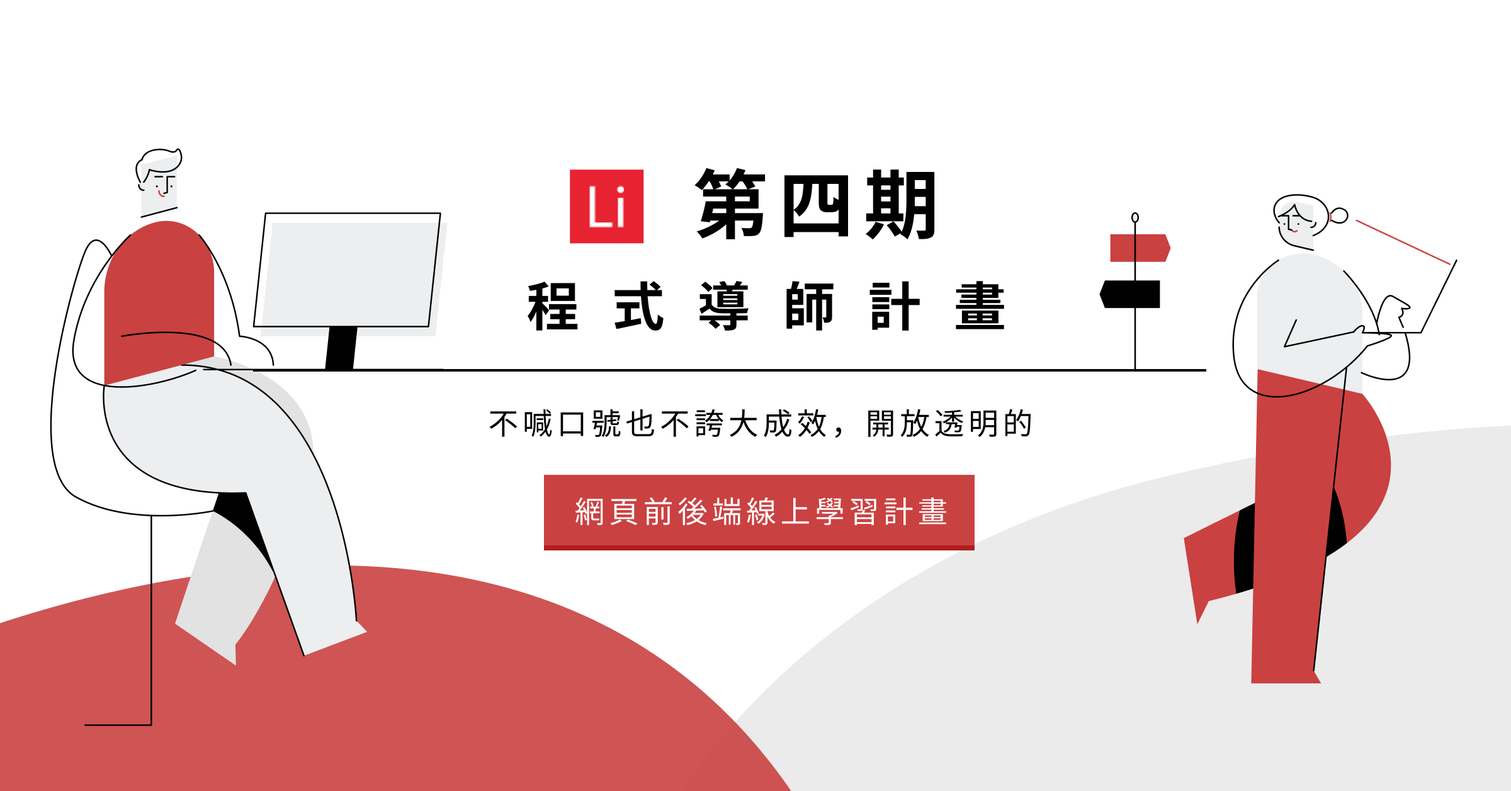
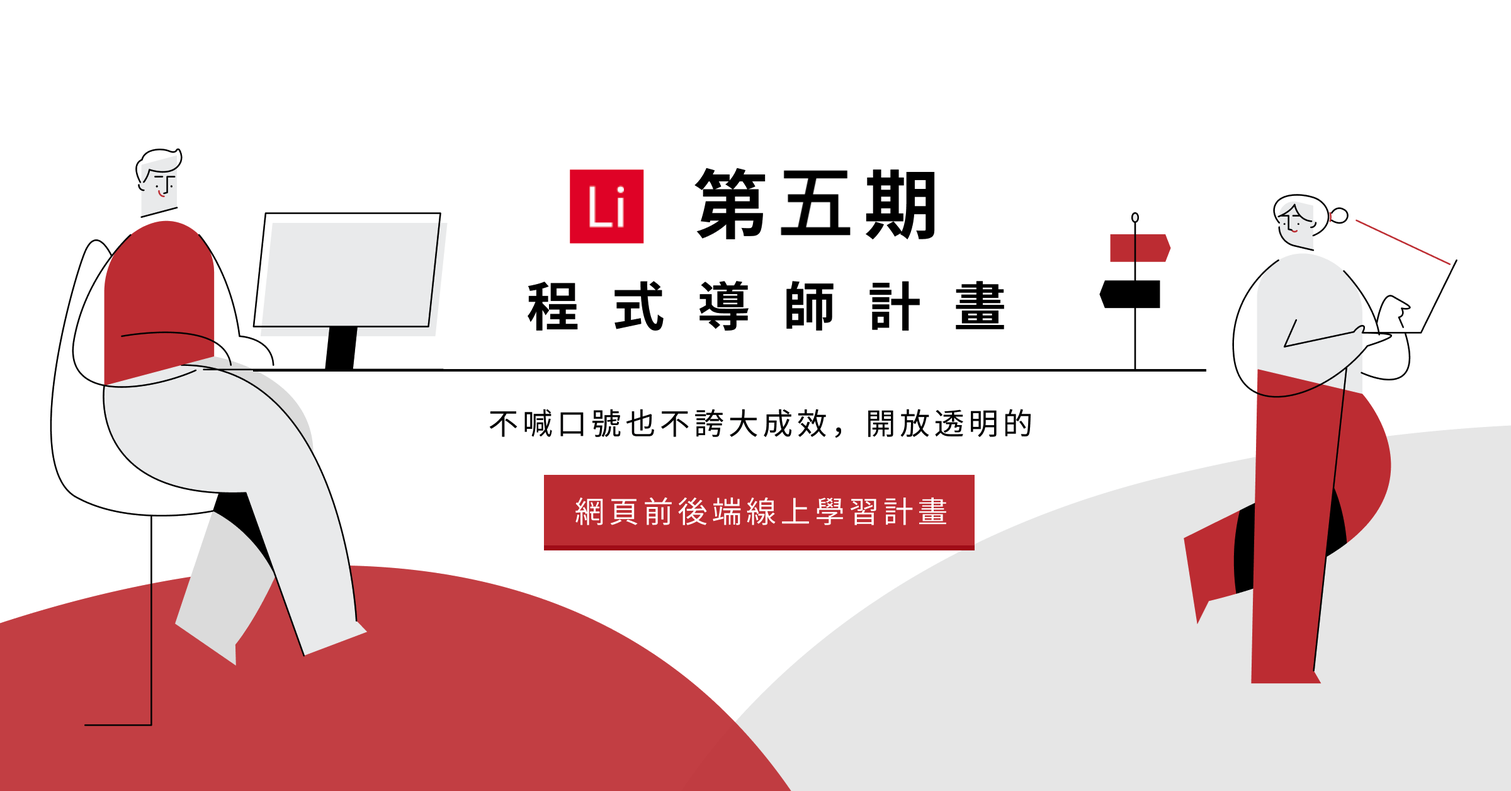
update og tag

Changed region(s): [[0.5, 0.2174, 0.5625, 0.3105], [0.375, 0.2174, 0.4375, 0.3105]]

diff --git a/docs/syllabus.html b/docs/syllabus.html
@@ -1,4 +1,4 @@
-<!-- layout--><!DOCTYPE html><html lang="en"><head><meta charset="UTF-8"/><meta name="viewport" content="width=device-width, initial-scale=1.0"/><meta name="Description" content="不喊口號也不誇大成效，開放透明的前後端線上學習計畫。 試著用六個月的時間，培養出一個找得到工作且基礎紮實的網頁工程師。"/><meta http-equiv="X-UA-Compatible" content="IE=edge"/><meta property="og:title" content="Lidemy 程式導師實驗計畫第四期"/><meta property="og:description" content="不喊口號也不誇大成效，開放透明的前後端線上學習計畫。 試著用六個月的時間，培養出一個找得到工作且基礎紮實的網頁工程師。"/><meta property="og:image" content="https://bootcamp.lidemy.com/image/og-img.png"/><meta property="og:type" content="website"/><meta property="og:url" content="https://bootcamp.lidemy.com"/><meta property="og:site_name" content="Lidemy 程式導師實驗計畫第四期"/><meta property="og:image:width" content="1200"/><meta property="og:image:height" content="628"/><meta name="twitter:card" content="summary_large_image"/><meta name="twitter:title" content="Lidemy 程式導師實驗計畫第四期"/><meta name="twitter:description" content="不喊口號也不誇大成效，開放透明的前後端線上學習計畫。 試著用六個月的時間，培養出一個找得到工作且基礎紮實的網頁工程師。"/><meta name="twitter:image" content="https://bootcamp.lidemy.com/image/og-img.png"/><link rel="author" type="text/plain" href="/humans.txt"/><link rel="stylesheet" href="css/main.min.css"/><link rel="icon" type="image/png" sizes="96x96" href="./image/favicon-96x96.png"/><title> | Lidemy 程式導師實驗計畫第四期</title><script async="" src="https://www.googletagmanager.com/gtag/js?id=UA-77560722-2"></script><script>window.dataLayer = window.dataLayer || [];
+<!-- layout--><!DOCTYPE html><html lang="en"><head><meta charset="UTF-8"/><meta name="viewport" content="width=device-width, initial-scale=1.0"/><meta name="Description" content="不喊口號也不誇大成效，開放透明的前後端線上學習計畫。 試著用六個月的時間，培養出一個找得到工作且基礎紮實的網頁工程師。"/><meta http-equiv="X-UA-Compatible" content="IE=edge"/><meta property="og:title" content="Lidemy 程式導師實驗計畫第五期"/><meta property="og:description" content="不喊口號也不誇大成效，開放透明的前後端線上學習計畫。 試著用六個月的時間，培養出一個找得到工作且基礎紮實的網頁工程師。"/><meta property="og:image" content="https://bootcamp.lidemy.com/image/og-img.png"/><meta property="og:type" content="website"/><meta property="og:url" content="https://bootcamp.lidemy.com"/><meta property="og:site_name" content="Lidemy 程式導師實驗計畫第五期"/><meta property="og:image:width" content="1200"/><meta property="og:image:height" content="628"/><meta name="twitter:card" content="summary_large_image"/><meta name="twitter:title" content="Lidemy 程式導師實驗計畫第五期"/><meta name="twitter:description" content="不喊口號也不誇大成效，開放透明的前後端線上學習計畫。 試著用六個月的時間，培養出一個找得到工作且基礎紮實的網頁工程師。"/><meta name="twitter:image" content="https://bootcamp.lidemy.com/image/og-img.png"/><link rel="author" type="text/plain" href="/humans.txt"/><link rel="stylesheet" href="css/main.min.css"/><link rel="icon" type="image/png" sizes="96x96" href="./image/favicon-96x96.png"/><title> | Lidemy 程式導師實驗計畫第五期</title><script async="" src="https://www.googletagmanager.com/gtag/js?id=UA-77560722-2"></script><script>window.dataLayer = window.dataLayer || [];
 function gtag(){dataLayer.push(arguments);}
 gtag('js', new Date());
 gtag('config', 'UA-77560722-2')</script></head><body><header class="header"><div class="header__content"><div class="header__logo"><a class="header__logo-img" href="/" aria-label="Home"></a><i class="fas fa-bars header__responsive__icon"></i></div><nav class="header__nav"><ul><li><a href="/">首頁</a></li><li><a href="introduce.html">計畫介紹</a></li><li class="current"><a href="syllabus.html">課程大綱</a></li><li><a href="achievement.html">教學成果</a></li><li><a href="course-info.html">課程資訊</a></li><li><a href="faq.html">FAQ</a></li></ul></nav><a class="header__cta-btn" href="course-info.html">了解報名資訊</a></div></header><div class="wrapper"><section class="section syllabus__header"><p class="syllabus__header-intro">底下是這一期的課程大綱，提供比較沒有程式基礎的新手參考。若是想要更完整的課綱以及作業，可以參考 <a href="https://github.com/Lidemy/mentor-program-5th" target="_blank" rel="noopener">第五期完整課綱（調整中）</a></p><ul><a href="#anchor-part1"><li class="syllabus__header-text">程式基礎<p>week1 - week5</p></li></a><a href="#anchor-part2"><li class="syllabus__header-text">網站開發<p>week6 - week10</p></li></a><a href="#anchor-part3"><li class="syllabus__header-text">探究原理<p>week11 - week20</p></li></a><a href="#anchor-part4"><li class="syllabus__header-text">專案開發<p>week21 - week26</p></li></a></ul></section><section class="section anchor-part1"><div class="syllabus theme-light"><div class="syllabus__intro"><div class="syllabus__intro-content"><h2>Part 1</h2><div class="syllabus__intro-content-icon">week 1 - week 5</div><div class="syllabus__intro-content-icon">程式基礎</div><p class="syllabus__intro-text">培養基礎是很重要的一件事，因此課程的第一部份就是好好地幫你把基礎打好，會讓往後的學習順利很多。在這部份中會教你使用指令操控電腦，講解基礎網路知識，以及使用 JavaScript 練習程式解題。</p></div><img class="syllabus__intro-blue-bg rellax" src="./image/theme_light_blue_bg.svg" alt="blue_bg" data-rellax-speed="2" data-rellax-percentage="0.5"/><img class="syllabus__intro-red-bg rellax" src="./image/theme_light_red_bg.svg" alt="red_bg" data-rellax-speed="3" data-rellax-percentage="0.5"/><div class="syllabus_intro-img"><img class="syllabus__intro-character" src="./image/theme_light_character.svg" alt="character"/></div></div><div class="syllabus__content"><ul class="syllabus__content__list"><li class="syllabus__content__item"><i class="fas fa-thumbs-up "></i><h3>建立良好學習心態</h3><ul><li>學習程式前的心態</li><li>問問題的心態</li><li>碰到挫折的心態</li><li>跟他人比較的心態</li><li>看待成功與失敗的心態</li></ul></li><li class="syllabus__content__item"><i class="fab fa-github has-color"></i><h3>學習版本控制</h3><ul><li class="has-color">理解 Git 與 GitHub 的差別</li><li class="has-color">理解為什麼需要版本控制</li><li class="has-color">熟悉 add、commit、push、pull 等基本 Git 指令</li><li class="has-color">熟悉 branch 的使用並送出 Pull Request</li><li class="has-color">熟悉 Git flow 交作業流程</li></ul></li><li class="syllabus__content__item"><i class="fas fa-globe-americas has-color"></i><h3>學習網路基本知識</h3><ul><li class="has-color">熟悉網路運作大概的模式</li><li class="has-color">熟悉什麼是 Request 與 Response</li><li class="has-color">熟悉 TCP/IP</li><li class="has-color">熟悉 HTTP 及相關知識</li><li class="has-color">能夠使用 Node.js 發出 Request</li></ul></li><li class="syllabus__content__item"><i class="fab fa-js "></i><h3>學習 JavaScript 基礎語法及相關知識</h3><ul><li>熟悉變數宣告、判斷式、迴圈以及函式等基礎語法</li><li>熟悉內建函式如 map, filter, reduce 等等</li><li>理解什麼是單元測試 Unit test</li><li>理解什麼是 NPM</li><li>能靈活運用程式基本概念來解題</li></ul></li></ul></div></div></section><section class="section anchor-part2"><div class="syllabus theme-dark"><div class="syllabus__intro"><img class="syllabus__intro-red-bg" src="./image/theme_light_red_bg.svg" alt="red_bg"/><div class="syllabus_intro-img"><img class="syllabus__intro-character lazy" data-src="./image/theme_dark_character.svg" alt="character"/></div><div class="syllabus__intro-content"><h2>Part 2</h2><div class="syllabus__intro-content-icon">week 6 - week 10</div><div class="syllabus__intro-content-icon">網站開發</div><p class="syllabus__intro-text">打好基礎以後，就可以開始學習網頁前後端開發。無論以後想走前端還是後端，都必須理解前後端溝通原理以及基本概念。在這部分會透過做出留言板來熟悉前後端開發流程以及協作。</p></div></div><div class="syllabus__content"><ul class="syllabus__content__list"><li class="syllabus__content__item"><i class="fab fa-html5 "></i><h3>學習網頁基礎 HTML</h3><ul><li>熟悉基本及常用標籤的運用</li><li>熟悉比較冷門的一些標籤</li><li>熟悉如何使用有語意的（semantic）標籤</li><li>熟悉 SEO 基本概念</li><li>熟悉常見網站的 HTML 標籤</li></ul></li><li class="syllabus__content__item"><i class="fab fa-css3-alt has-color"></i><h3>學習 CSS</h3><ul><li class="has-color">熟悉常見屬性如 background, color, width, height 等等</li><li class="has-color">知道 inline、block 跟 inline-block 的區別</li><li class="has-color">知道什麼是 box model</li><li class="has-color">知道 position 的所有屬性及其差別</li><li class="has-color">熟悉 CSS selector，可以輕鬆選到想選到的元素</li></ul></li><li class="syllabus__content__item"><i class="fab fa-chrome has-color"></i><h3>學習 JavaScript 在瀏覽器上的運用</h3><ul><li class="has-color">知道如何用 JavaScript 操控 DOM 物件</li><li class="has-color">知道如何幫一個按鈕加上 event listener</li><li class="has-color">知道捕獲與冒泡是什麼</li><li class="has-color">知道什麼是事件代理（delegation）</li><li class="has-color">知道怎麼用 JavaScript 更改元素的 style</li></ul></li><li class="syllabus__content__item"><i class="fas fa-database "></i><h3>學習 MySQL 資料庫</h3><ul><li>知道如何使用 Select 選取資料</li><li>知道如何使用 Update 更改資料</li><li>知道如何使用 Delete 刪除資料</li><li>知道如何使用 Insert 新增資料</li><li>熟悉 where, join 等等這些基本語法</li></ul></li><li class="syllabus__content__item"><i class="fab fa-php "></i><h3>學習後端 PHP 開發</h3><ul><li>理解前端與後端的差別</li><li>理解前後端溝通流程</li><li>熟悉 PHP 基礎語法</li><li>熟悉 PHP 與資料庫的串接</li><li>能夠寫出基本網站</li></ul></li></ul></div></div></section><section class="section anchor-part3"><div class="syllabus theme-light"><div class="syllabus__intro"><div class="syllabus__intro-content"><h2>Part 3</h2><div class="syllabus__intro-content-icon">week 11 - week 20</div><div class="syllabus__intro-content-icon">探究原理</div><p class="syllabus__intro-text">學會基礎的網頁開發以後，透過一連串練習來熟悉開發流程，也會深入了解一些重要的觀念，讓學員徹底理解背後的原理。這部分主要是熟悉網頁開發中的重要觀念，例如說狀態的維持（Cookie 與 Session）等等。</p></div><img class="syllabus__intro-blue-bg rellax" src="./image/theme_light_blue_bg.svg" alt="blue_bg" data-rellax-speed="2" data-rellax-percentage="0.5"/><img class="syllabus__intro-red-bg rellax" src="./image/theme_light_red_bg.svg" alt="red_bg" data-rellax-speed="3" data-rellax-percentage="0.5"/><div class="syllabus_intro-img"><img class="syllabus__intro-character" src="./image/theme_light_character.svg" alt="character"/></div></div><div class="syllabus__content"><ul class="syllabus__content__list"><li class="syllabus__content__item"><i class="fas fa-tools "></i><h3>學習現代前端開發工具</h3><ul><li>熟悉 jQuery</li><li>熟悉 Bootstrap</li><li>熟悉 Gulp</li><li>熟悉 Webpack</li><li>熟悉 CSS 預處理器</li></ul></li><li class="syllabus__content__item"><i class="fas fa-server has-color"></i><h3>學習建置 Server 及部署專案</h3><ul><li class="has-color">知道虛擬空間、虛擬主機以及實體主機的差別</li><li class="has-color">知道如何設定網域（A、CNAME）</li><li class="has-color">知道如何用 SSH 遠端連線到自己的主機</li><li class="has-color">知道如何在伺服器安裝 Apache, PHP 與 MySQL</li><li class="has-color">知道如何購買雲端主機</li></ul></li><li class="syllabus__content__item"><i class="fas fa-chart-line has-color"></i><h3>學習效能優化相關議題</h3><ul><li class="has-color">知道 HTTP Cache header 的使用</li><li class="has-color">知道如何壓縮圖片大小以及各種格式的區別</li><li class="has-color">知道透過 minify 或是 uglify 減少檔案大小</li><li class="has-color">知道減少不必要的程式碼</li><li class="has-color">知道延遲載入（lazy loading）</li></ul></li><li class="syllabus__content__item"><i class="fas fa-shield-alt "></i><h3>理解常見資訊安全問題</h3><ul><li>熟悉 SQL Injection 原理及防禦方法</li><li>熟悉 XSS 原理及防禦方法</li><li>熟悉 CSRF 原理及防禦方法</li><li>知道雜湊與加密的區別</li><li>知道密碼為什麼要經過雜湊，知道什麼是加鹽</li></ul></li><li class="syllabus__content__item"><i class="fab fa-js "></i><h3>理解 JavaScript 語言核心</h3><ul><li>知道 Event Loop 的運作方式</li><li>知道什麼是作用域（Scope）</li><li>知道 Hoisting 的原理為何</li><li>知道 Closure（閉包）是什麼</li><li>知道大部分情況下 this 的值是什麼</li></ul></li></ul></div></div></section><section class="section anchor-part4"><div class="syllabus theme-dark"><div class="syllabus__intro"><img class="syllabus__intro-red-bg" src="./image/theme_light_red_bg.svg" alt="red_bg"/><div class="syllabus_intro-img"><img class="syllabus__intro-character lazy" data-src="./image/theme_dark_character.svg" alt="character"/></div><div class="syllabus__intro-content"><h2>Part 4</h2><div class="syllabus__intro-content-icon">week 21 - week 26</div><div class="syllabus__intro-content-icon">專案開發</div><p class="syllabus__intro-text">最後一個部分會學習現代框架，使用較新的技術進行網站開發，與業界接軌。除此之外，也會統整之前學習的內容，由導師及助教帶領學員分組進行期末專案開發，而這專案就可以直接放入作品集內。</p></div></div><div class="syllabus__content"><ul class="syllabus__content__list"><li class="syllabus__content__item"><i class="fab fa-react "></i><h3>熟悉前端 React</h3><ul><li>熟悉 SPA 的概念</li><li>熟悉 React 核心概念</li><li>熟悉 state 與 props 的區別</li><li>熟悉元件的各個生命週期</li><li>熟悉函式庫例如 react-router 的使用</li></ul></li><li class="syllabus__content__item"><i class="fas fa-database has-color"></i><h3>熟悉後端 Express + Sequelize</h3><ul><li class="has-color">熟悉 Express 框架使用方法</li><li class="has-color">熟悉 MVC 開發模式</li><li class="has-color">熟悉 ORM 以及 Sequelize</li><li class="has-color">熟悉 Seeds, Migration 等概念</li><li class="has-color">熟悉 nginx 基礎</li></ul></li><li class="syllabus__content__item"><i class="fas fa-code-branch has-color"></i><h3>學習專案分工及 Git 協作</h3><ul><li class="has-color">熟悉產品開發流程</li><li class="has-color">熟悉工作流程</li><li class="has-color">熟悉專案分工</li><li class="has-color">熟悉 Scrum 及 Agile</li><li class="has-color">熟悉 Git flow</li></ul></li></ul></div></div></section><section class="section cta lazy" data-bg="image/img_cta_bg.svg"><h3 class="cta__title">想要一起來學習程式嗎？</h3><p class="cta__content">第五期現正招生中，到三月底截止，強烈建議你先把官網的資訊都看完，全盤了解過後再做決定，有任何問題都可以透過 Lidemy 粉絲專頁與我們聯絡！</p><div class="cta__operate"><a class="cta__button cta__button-apply" href="achievement.html">觀看教學成果</a><a class="cta__button cta__button-mail" href="course-info.html">報名資訊</a></div></section><button class="scroll-top-btn content-invisible" aria-label="scrollToTop"></button></div><footer class="footer"><div class="footer__content"><div class="footer__links"><a class="logo" href="index.html"><div class="pic"><div class="footer__logo-img"></div></div><h3>Lidemy</h3></a><p>用六個月的時間，培養出一個找得到工作且基礎紮實的網頁工程師。</p><p class="footer__follow">FOLLOW US</p><div class="footer__social social-icons"><a class="github-link" href="https://github.com/Lidemy/mentor-program-4th" target="_blank" rel="noopener" aria-label="GitHub"><i class="fab fa-github"></i></a><a class="facebook-link" href="https://www.facebook.com/lidemytw/" target="_blank" rel="noopener" aria-label="Facebook"><i class="fab fa-facebook-square"></i></a><a class="medium-link" href="https://medium.com/@hulitw" target="_blank" rel="noopener" aria-label="Medium"><i class="fab fa-medium"></i></a></div></div><ul class="footer__nav-list"><li class="footer__nav-item"><h4 class="footer__nav-title">HOME</h4><a href="/#anchor-features">課程特色</a><a href="/#anchor-methods">教學方式</a><a href="/#anchor-about-teacher">關於導師</a><a href="/#anchor-schedule">課程時程</a><a href="/#anchor-target">適合怎樣的人</a><a href="/#anchor-previous-experience">學員心得節錄</a></li><li class="footer__nav-item"><h4 class="footer__nav-title">INTRODUCE</h4><a href="introduce.html#anchor-projectIntro">計畫介紹</a><a href="introduce.html#anchor-teacherIntro">老師介紹</a><a href="introduce.html#anchor-improvement">歷屆改進心得</a></li><li class="footer__nav-item"><h4 class="footer__nav-title">COURSE</h4><a href="syllabus.html#anchor-part1">程式基礎</a><a href="syllabus.html#anchor-part2">網站開發</a><a href="syllabus.html#anchor-part3">探究原理</a><a href="syllabus.html#anchor-part4">專案開發</a></li><li class="footer__nav-item"><h4 class="footer__nav-title">RESULT</h4><a href="achievement.html#anchor-data">歷屆數據</a><a href="achievement.html#anchor-report">學生求職成果</a><a href="achievement.html#anchor-experience">結業心得</a></li><li class="footer__nav-item"><h4 class="footer__nav-title">APPLY</h4><a href="course-info.html#anchor-rule">課程制度</a><a href="course-info.html#anchor-charge">收費方式</a><a href="course-info.html#anchor-registration">報名方式</a><a href="course-info.html#anchor-letter">報名信內容</a><a href="course-info.html#anchor-schedule-list">時程列表</a></li><li class="footer__nav-item"><h4 class="footer__nav-title">FAQ</h4><a href="faq.html#anchor-faq">常見問題</a></li></ul></div><div class="footer__footnote"><p class="resource">illustrator from<a href="https://getillustrations.com/illustration-pack/ghost-illustrations-builder" target="_blank" rel="noopener">getillustrations.com</a></p><p class="copyright">© 2020 Lidemy. All rights reserved.</p><div class="footer__footnote__btn"><a href="https://github.com/Lidemy/mtr-4th-web" target="_blank" rel="noopener">Source Code.</a><a href="/humans.txt" target="_blank" rel="noopener">Team.</a></div></div></footer><section class="banner"><p class="fixed_info">🏁 第五期開放報名中 🏁</p></section><script defer src="js/index.bundle.js"></script><link rel="stylesheet" href="https://fonts.googleapis.com/css2?family=Work+Sans&amp;display=swap"></body></html>

diff --git a/docs/faq.html b/docs/faq.html
@@ -1,4 +1,4 @@
-<!-- layout--><!DOCTYPE html><html lang="en"><head><meta charset="UTF-8"/><meta name="viewport" content="width=device-width, initial-scale=1.0"/><meta name="Description" content="不喊口號也不誇大成效，開放透明的前後端線上學習計畫。 試著用六個月的時間，培養出一個找得到工作且基礎紮實的網頁工程師。"/><meta http-equiv="X-UA-Compatible" content="IE=edge"/><meta property="og:title" content="Lidemy 程式導師實驗計畫第四期"/><meta property="og:description" content="不喊口號也不誇大成效，開放透明的前後端線上學習計畫。 試著用六個月的時間，培養出一個找得到工作且基礎紮實的網頁工程師。"/><meta property="og:image" content="https://bootcamp.lidemy.com/image/og-img.png"/><meta property="og:type" content="website"/><meta property="og:url" content="https://bootcamp.lidemy.com"/><meta property="og:site_name" content="Lidemy 程式導師實驗計畫第四期"/><meta property="og:image:width" content="1200"/><meta property="og:image:height" content="628"/><meta name="twitter:card" content="summary_large_image"/><meta name="twitter:title" content="Lidemy 程式導師實驗計畫第四期"/><meta name="twitter:description" content="不喊口號也不誇大成效，開放透明的前後端線上學習計畫。 試著用六個月的時間，培養出一個找得到工作且基礎紮實的網頁工程師。"/><meta name="twitter:image" content="https://bootcamp.lidemy.com/image/og-img.png"/><link rel="author" type="text/plain" href="/humans.txt"/><link rel="stylesheet" href="css/main.min.css"/><link rel="icon" type="image/png" sizes="96x96" href="./image/favicon-96x96.png"/><title>FAQ | Lidemy 程式導師實驗計畫第四期</title><script async="" src="https://www.googletagmanager.com/gtag/js?id=UA-77560722-2"></script><script>window.dataLayer = window.dataLayer || [];
+<!-- layout--><!DOCTYPE html><html lang="en"><head><meta charset="UTF-8"/><meta name="viewport" content="width=device-width, initial-scale=1.0"/><meta name="Description" content="不喊口號也不誇大成效，開放透明的前後端線上學習計畫。 試著用六個月的時間，培養出一個找得到工作且基礎紮實的網頁工程師。"/><meta http-equiv="X-UA-Compatible" content="IE=edge"/><meta property="og:title" content="Lidemy 程式導師實驗計畫第五期"/><meta property="og:description" content="不喊口號也不誇大成效，開放透明的前後端線上學習計畫。 試著用六個月的時間，培養出一個找得到工作且基礎紮實的網頁工程師。"/><meta property="og:image" content="https://bootcamp.lidemy.com/image/og-img.png"/><meta property="og:type" content="website"/><meta property="og:url" content="https://bootcamp.lidemy.com"/><meta property="og:site_name" content="Lidemy 程式導師實驗計畫第五期"/><meta property="og:image:width" content="1200"/><meta property="og:image:height" content="628"/><meta name="twitter:card" content="summary_large_image"/><meta name="twitter:title" content="Lidemy 程式導師實驗計畫第五期"/><meta name="twitter:description" content="不喊口號也不誇大成效，開放透明的前後端線上學習計畫。 試著用六個月的時間，培養出一個找得到工作且基礎紮實的網頁工程師。"/><meta name="twitter:image" content="https://bootcamp.lidemy.com/image/og-img.png"/><link rel="author" type="text/plain" href="/humans.txt"/><link rel="stylesheet" href="css/main.min.css"/><link rel="icon" type="image/png" sizes="96x96" href="./image/favicon-96x96.png"/><title>FAQ | Lidemy 程式導師實驗計畫第五期</title><script async="" src="https://www.googletagmanager.com/gtag/js?id=UA-77560722-2"></script><script>window.dataLayer = window.dataLayer || [];
 function gtag(){dataLayer.push(arguments);}
 gtag('js', new Date());
 gtag('config', 'UA-77560722-2')</script></head><body><header class="header"><div class="header__content"><div class="header__logo"><a class="header__logo-img" href="/" aria-label="Home"></a><i class="fas fa-bars header__responsive__icon"></i></div><nav class="header__nav"><ul><li><a href="/">首頁</a></li><li><a href="introduce.html">計畫介紹</a></li><li><a href="syllabus.html">課程大綱</a></li><li><a href="achievement.html">教學成果</a></li><li><a href="course-info.html">課程資訊</a></li><li class="current"><a href="faq.html">FAQ</a></li></ul></nav><a class="header__cta-btn" href="course-info.html">了解報名資訊</a></div></header><div class="wrapper"><div class="section faq anchor-faq"><h3 class="common__title center"><a href="#anchor-faq">FAQ</a></h3><ul class="faq__list"><li class="faq__list__item active"><a class="faq__list__item-link" href="#"> <div class="faq__list__item-question"> <span>Q</span><h3>為什麼這個計畫到了第五期還是「實驗」計畫？</h3></div><i class="fas fa-chevron-up"></i></a><div class="faq__list__item-content"><span>A</span><div class="faq__list__item-content-text"><p>這個計畫搞不好永遠都會叫做「實驗」計畫，因為每一期我都當作一個實驗，實驗我的教學成效如何、品質如何，根據學生的回饋調整課程內容，繼續做下一輪的實驗，持續優化、改進。</p></div></div></li><li class="faq__list__item "><a class="faq__list__item-link" href="#"> <div class="faq__list__item-question"> <span>Q</span><h3>為什麼我要花這麼多錢只為了看線上影片？</h3></div><i class="fas fa-chevron-up"></i></a><div class="faq__list__item-content"><span>A</span><div class="faq__list__item-content-text"><p>因為這個課程不只有線上影片。</p><p>除了線上影片以外，還有批改作業的服務以及學習社群，還有學員專屬的直播 QA 時間。這些東西全都加在一起，才是這個計畫的獨特之處。若是你覺得只看線上影片就很足夠了，部分的課程內容其實有在對外販售，可以參考：  <a href="https://lidemy.com/" target="_blank" rel="noopener">Lidemy 課程列表 </a>。</a></p></div></div></li><li class="faq__list__item "><a class="faq__list__item-link" href="#"> <div class="faq__list__item-question"> <span>Q</span><h3>為什麼課程裡前後端都有而不是只專注在一個？兩邊都學會不會樣樣通樣樣鬆？</h3></div><i class="fas fa-chevron-up"></i></a><div class="faq__list__item-content"><span>A</span><div class="faq__list__item-content-text"><p>首先，讓你前後端都學絕對不是讓你成為 Full-stack 工程師，成為 Half-stack 倒是有點機會。無論你是前端還是後端，別忘了前面還有大家經常性忽略的一個詞「Web」，Web 前端與後端才是全名。</p><p>既然 Web 包含了前後端兩個部分，少了任何一部份都不完整，都會讓你對於整個網路的理解缺了一塊。因此這堂課從前到後再由後到前，希望把你對網路的知識整個打通，這樣我覺得才是最完整、最全面的學習。</p><p>至於樣樣通樣樣鬆，不會。</p><p>一併學習前後端的好處就是對網路的基礎會比只學單個的紮實許多，因為你對整體有個全面性的理解。而且這邊前後端都注重原理與基礎，基礎打好之後學工具便不是難事。</p></div></div></li><li class="faq__list__item "><a class="faq__list__item-link" href="#"> <div class="faq__list__item-question"> <span>Q</span><h3>學生出來會不會沒人帶就什麼都不會？</h3></div><i class="fas fa-chevron-up"></i></a><div class="faq__list__item-content"><span>A</span><div class="faq__list__item-content-text">     <p>首先，大家要很清楚知道的一點是，在職場上沒人帶才是常態。很有可能你進去的公司只有你一個工程師，或是儘管有一個 team，但也不會有一個人專門去帶你。本來就沒有人有義務去帶你。</p><p>為了不讓學生變成只會看影片跟著打 code ，關了影片什麼都寫不出來的那種人，我在作業上有做一些調整，很多作業的內容跟要你寫的東西是課程裡面沒有的，你就必須自己去找資料才能實作得出來。</p><p>所以在課程中就已經培養了一定程度的自學能力。</p></div></div></li><li class="faq__list__item "><a class="faq__list__item-link" href="#"> <div class="faq__list__item-question"> <span>Q</span><h3>學費方案是怎麼訂的？</h3></div><i class="fas fa-chevron-up"></i></a><div class="faq__list__item-content"><span>A</span><div class="faq__list__item-content-text"> <p>在一開始的程式導師實驗計畫，只有「A 求職方案」，背後的理念是：「你來我這邊學半年，如果還找不到工作，那是我的問題，是我沒教好」所以一毛錢都不用付，但如果找到工作了，代表我教得不錯，那就要收一筆學費。</p><p>但是轉職可不是件簡單的事，雖然說六個月很長了，但是這跟你每天付出多少時間是有關的，一天只能付出兩小時跟一天付出六小時，最後的時數就差了三倍。</p><p>我規劃的課綱以及作業大概是「每週至少付出 50 個小時」的量，這差不多就是要全職學習了，否則很難做到。而我也認為對想要在半年內轉職的人來說，這樣的時間是必須的。</p><p>但是一開始的收費規則並沒有很強硬的規定時間以及轉職意願，所以幾期下來，有一些學生是課程開始時想要轉職，到後面卻因為各種因素不想轉了，也有一些可以付出的時間越來越少。</p><p>若是「沒辦法付出時間」或者「沒有求職意願」，那我前面所說的「你來我這邊學半年，如果還找不到工作，那是我的問題，是我沒教好」這句話就不成立了，因為這句話的前提是：「這半年要持續付出一定時間」以及「你要有求職意願」。</p><p>但如果只收這種人，就會沒辦法顧到其他的人。例如說已經有工作想來加強基礎，或者是想要邊工作邊學習程式轉職成工程師，時間也可以接受拉得比較長（可能多兩個月之類的），或是純粹對程式有興趣想要學習的人。針對這些人，原本的付費規則就不適用了，因此才有了第四期這個新的付費規則：「就直接付學費吧」。</p><p>以前幾期的資料來看，若是課程有好好上完，年薪 50 萬跑不掉，那學費就是 60k，因此 B 方案就以這個價錢為基準再降 5k，所以總額才定在 55k。</p><p>為什麼要降 5k？這是為了讓想要轉職的人也可以考慮 B 方案。如果有人符合選擇 A 方案的資格，但是對自己很有自信，覺得一定可以轉職成功，那就可以選擇 B 方案。對他來說，整體學費變少了，對我來說，我也不須承擔找不到工作學費歸零的風險，是對雙方都有利益的行為。</p></div></div></li><li class="faq__list__item "><a class="faq__list__item-link" href="#"> <div class="faq__list__item-question"> <span>Q</span><h3>收費方案有點複雜，可以舉一些例子嗎？</h3></div><i class="fas fa-chevron-up"></i></a><div class="faq__list__item-content"><span>A</span><div class="faq__list__item-content-text"> <p>案例一：兩個月後選擇「A 求職方案」，繳交保證金 5000 元，跟到課程結束，於課程開始七個月後找到工作，年薪為 50 萬，總共的學費為：500k * 12% = 60k，扣掉保證金 5k，還要再繳 55k</p><p>案例二：兩個月後選擇「A 求職方案」，繳交保證金 5000 元，課程開始八個月後都還沒找到工作，可以選擇什麼都不做，繼續留在課程，或是退出計畫，退回保證金 5000 元以及收回課程</p><p>案例三：兩個月後選擇「A 求職方案」，繳交保證金 5000，在第四個月的時候沒有求職意願了，選擇退出課程，需要付 (4-2) * 12500 = 25000 元學費。</p><p>案例四：兩個月後選擇「B 買斷方案」，繳交保證金 5000 元，一個月後開始每個月付 12500 元學費，付一個月之後就不想上了，退出課程，不收其他費用。</p><p>附上幾個時間點：</p><2021-04-12> 課程開始</2021-04-12><br/><2021-06-01> 開始繳交保證金 5000 元並選擇課程方案，選擇「B 買斷方案」的同學需要繳交第一期 5000 + 12500 的款項，之後每個月再付 12500 元，總共要付四期</2021-06-01><br/><2021-10-12> 課程結束，「A 求職方案」的同學開始準備求職</2021-10-12><br/><2021-12-12> 求職期限截止，選擇「A 求職方案」的同學在這個時間點以前沒有找到工作都不用付學費</2021-12-12></div></div></li><li class="faq__list__item "><a class="faq__list__item-link" href="#"> <div class="faq__list__item-question"> <span>Q</span><h3>上了這堂課以後，就可以做出這個網站嗎？</h3></div><i class="fas fa-chevron-up"></i></a><div class="faq__list__item-content"><span>A</span><div class="faq__list__item-content-text"> <p>很遺憾地告訴你，沒辦法。</p><p>因為網站漂亮大部分是設計師的功勞，而不是工程師的。工程師通常都只是照著設計稿把網頁刻出來，而這堂課裡面完全不教設計，所以就算上完，也不會掌握任何設計相關能力。</p><p>不過若是已經有了設計稿，要照著設計稿把這個網站刻出來，我相信是有辦法的（但要花很多時間）</p></div></div></li><li class="faq__list__item "><a class="faq__list__item-link" href="#"> <div class="faq__list__item-question"> <span>Q</span><h3>上這個課真的不需要有任何程式基礎嗎？</h3></div><i class="fas fa-chevron-up"></i></a><div class="faq__list__item-content"><span>A</span><div class="faq__list__item-content-text">     <p>真的，一點都不需要。</p><p>但同時我也不否認，如果有程式基礎這堂課會上的比較順利。以前滿多學生其實都沒有程式基礎，而且背景跟程式甚至跟理科一點關係都沒有，最後有在時限內轉職成功的，也有失敗的。</p><p>這堂課原本就是設計給毫無程式基礎的初學者上的，將來也會是這樣，所以不需要擔心。若是還有疑慮，可以參考歷屆學生的心得，找看看有沒有跟你背景差不多的人，聽一下他們怎麼說。</p></div></div></li><li class="faq__list__item "><a class="faq__list__item-link" href="#"> <div class="faq__list__item-question"> <span>Q</span><h3>上了這堂課以後，一定可以轉職成工程師嗎？</h3></div><i class="fas fa-chevron-up"></i></a><div class="faq__list__item-content"><span>A</span><div class="faq__list__item-content-text"> <p>很遺憾地告訴你，不一定。</p><p>過去也帶了不少學生，並不是每一個人都可以轉職成工程師。不過根據過往的經歷來看，如果有把課程修完，基本上要找到工作是沒有問題的。所以其實最難的點是難在「把課程修完」，因為中途會碰到很多原因讓你想放棄，例如說自己的私事或是提不起興趣、時間不夠等等，也有可能是我的課程設計得不夠好，或者是課程太無聊，老師講得太爛。</p><p>但我會努力做好我的部分，會盡量去改善課程，讓課程變得更好。</p></div></div></li></ul></div><script defer src="js/faq.bundle.js"></script><button class="scroll-top-btn content-invisible" aria-label="scrollToTop"></button></div><footer class="footer"><div class="footer__content"><div class="footer__links"><a class="logo" href="index.html"><div class="pic"><div class="footer__logo-img"></div></div><h3>Lidemy</h3></a><p>用六個月的時間，培養出一個找得到工作且基礎紮實的網頁工程師。</p><p class="footer__follow">FOLLOW US</p><div class="footer__social social-icons"><a class="github-link" href="https://github.com/Lidemy/mentor-program-4th" target="_blank" rel="noopener" aria-label="GitHub"><i class="fab fa-github"></i></a><a class="facebook-link" href="https://www.facebook.com/lidemytw/" target="_blank" rel="noopener" aria-label="Facebook"><i class="fab fa-facebook-square"></i></a><a class="medium-link" href="https://medium.com/@hulitw" target="_blank" rel="noopener" aria-label="Medium"><i class="fab fa-medium"></i></a></div></div><ul class="footer__nav-list"><li class="footer__nav-item"><h4 class="footer__nav-title">HOME</h4><a href="/#anchor-features">課程特色</a><a href="/#anchor-methods">教學方式</a><a href="/#anchor-about-teacher">關於導師</a><a href="/#anchor-schedule">課程時程</a><a href="/#anchor-target">適合怎樣的人</a><a href="/#anchor-previous-experience">學員心得節錄</a></li><li class="footer__nav-item"><h4 class="footer__nav-title">INTRODUCE</h4><a href="introduce.html#anchor-projectIntro">計畫介紹</a><a href="introduce.html#anchor-teacherIntro">老師介紹</a><a href="introduce.html#anchor-improvement">歷屆改進心得</a></li><li class="footer__nav-item"><h4 class="footer__nav-title">COURSE</h4><a href="syllabus.html#anchor-part1">程式基礎</a><a href="syllabus.html#anchor-part2">網站開發</a><a href="syllabus.html#anchor-part3">探究原理</a><a href="syllabus.html#anchor-part4">專案開發</a></li><li class="footer__nav-item"><h4 class="footer__nav-title">RESULT</h4><a href="achievement.html#anchor-data">歷屆數據</a><a href="achievement.html#anchor-report">學生求職成果</a><a href="achievement.html#anchor-experience">結業心得</a></li><li class="footer__nav-item"><h4 class="footer__nav-title">APPLY</h4><a href="course-info.html#anchor-rule">課程制度</a><a href="course-info.html#anchor-charge">收費方式</a><a href="course-info.html#anchor-registration">報名方式</a><a href="course-info.html#anchor-letter">報名信內容</a><a href="course-info.html#anchor-schedule-list">時程列表</a></li><li class="footer__nav-item"><h4 class="footer__nav-title">FAQ</h4><a href="faq.html#anchor-faq">常見問題</a></li></ul></div><div class="footer__footnote"><p class="resource">illustrator from<a href="https://getillustrations.com/illustration-pack/ghost-illustrations-builder" target="_blank" rel="noopener">getillustrations.com</a></p><p class="copyright">© 2020 Lidemy. All rights reserved.</p><div class="footer__footnote__btn"><a href="https://github.com/Lidemy/mtr-4th-web" target="_blank" rel="noopener">Source Code.</a><a href="/humans.txt" target="_blank" rel="noopener">Team.</a></div></div></footer><section class="banner"><p class="fixed_info">🏁 第五期開放報名中 🏁</p></section><script defer src="js/index.bundle.js"></script><link rel="stylesheet" href="https://fonts.googleapis.com/css2?family=Work+Sans&amp;display=swap"></body></html>

diff --git a/docs/index.html b/docs/index.html
@@ -1,4 +1,4 @@
-<!-- layout--><!DOCTYPE html><html lang="en"><head><meta charset="UTF-8"/><meta name="viewport" content="width=device-width, initial-scale=1.0"/><meta name="Description" content="不喊口號也不誇大成效，開放透明的前後端線上學習計畫。 試著用六個月的時間，培養出一個找得到工作且基礎紮實的網頁工程師。"/><meta http-equiv="X-UA-Compatible" content="IE=edge"/><meta property="og:title" content="Lidemy 程式導師實驗計畫第四期"/><meta property="og:description" content="不喊口號也不誇大成效，開放透明的前後端線上學習計畫。 試著用六個月的時間，培養出一個找得到工作且基礎紮實的網頁工程師。"/><meta property="og:image" content="https://bootcamp.lidemy.com/image/og-img.png"/><meta property="og:type" content="website"/><meta property="og:url" content="https://bootcamp.lidemy.com"/><meta property="og:site_name" content="Lidemy 程式導師實驗計畫第四期"/><meta property="og:image:width" content="1200"/><meta property="og:image:height" content="628"/><meta name="twitter:card" content="summary_large_image"/><meta name="twitter:title" content="Lidemy 程式導師實驗計畫第四期"/><meta name="twitter:description" content="不喊口號也不誇大成效，開放透明的前後端線上學習計畫。 試著用六個月的時間，培養出一個找得到工作且基礎紮實的網頁工程師。"/><meta name="twitter:image" content="https://bootcamp.lidemy.com/image/og-img.png"/><link rel="author" type="text/plain" href="/humans.txt"/><link rel="stylesheet" href="css/main.min.css"/><link rel="icon" type="image/png" sizes="96x96" href="./image/favicon-96x96.png"/><title>首頁 | Lidemy 程式導師實驗計畫第四期</title><script async="" src="https://www.googletagmanager.com/gtag/js?id=UA-77560722-2"></script><script>window.dataLayer = window.dataLayer || [];
+<!-- layout--><!DOCTYPE html><html lang="en"><head><meta charset="UTF-8"/><meta name="viewport" content="width=device-width, initial-scale=1.0"/><meta name="Description" content="不喊口號也不誇大成效，開放透明的前後端線上學習計畫。 試著用六個月的時間，培養出一個找得到工作且基礎紮實的網頁工程師。"/><meta http-equiv="X-UA-Compatible" content="IE=edge"/><meta property="og:title" content="Lidemy 程式導師實驗計畫第五期"/><meta property="og:description" content="不喊口號也不誇大成效，開放透明的前後端線上學習計畫。 試著用六個月的時間，培養出一個找得到工作且基礎紮實的網頁工程師。"/><meta property="og:image" content="https://bootcamp.lidemy.com/image/og-img.png"/><meta property="og:type" content="website"/><meta property="og:url" content="https://bootcamp.lidemy.com"/><meta property="og:site_name" content="Lidemy 程式導師實驗計畫第五期"/><meta property="og:image:width" content="1200"/><meta property="og:image:height" content="628"/><meta name="twitter:card" content="summary_large_image"/><meta name="twitter:title" content="Lidemy 程式導師實驗計畫第五期"/><meta name="twitter:description" content="不喊口號也不誇大成效，開放透明的前後端線上學習計畫。 試著用六個月的時間，培養出一個找得到工作且基礎紮實的網頁工程師。"/><meta name="twitter:image" content="https://bootcamp.lidemy.com/image/og-img.png"/><link rel="author" type="text/plain" href="/humans.txt"/><link rel="stylesheet" href="css/main.min.css"/><link rel="icon" type="image/png" sizes="96x96" href="./image/favicon-96x96.png"/><title>首頁 | Lidemy 程式導師實驗計畫第五期</title><script async="" src="https://www.googletagmanager.com/gtag/js?id=UA-77560722-2"></script><script>window.dataLayer = window.dataLayer || [];
 function gtag(){dataLayer.push(arguments);}
 gtag('js', new Date());
 gtag('config', 'UA-77560722-2')</script></head><body class="theme-index"><header class="header"><div class="header__content"><div class="header__logo"><a class="header__logo-img" href="/" aria-label="Home"></a><i class="fas fa-bars header__responsive__icon"></i></div><nav class="header__nav"><ul><li class="current"><a href="/">首頁</a></li><li><a href="introduce.html">計畫介紹</a></li><li><a href="syllabus.html">課程大綱</a></li><li><a href="achievement.html">教學成果</a></li><li><a href="course-info.html">課程資訊</a></li><li><a href="faq.html">FAQ</a></li></ul></nav><a class="header__cta-btn" href="course-info.html">了解報名資訊</a></div></header><div class="wrapper"><section class="main-visual__container"><div class="main-visual"><h1 class="project__title"><div class="project__title__num">第五期</div><div class="project__title__name">程式導師計畫</div></h1><h2 class="project__desc">不喊口號也不誇大成效，開放透明的 <strong>網頁前後端線上學習計畫</strong><span>試著用六個月的時間，培養出一個找得到工作且基礎紮實的網頁工程師。</span></h2></div></section><section class="section features anchor-features"><h3 class="common__title center"><a href="#anchor-features">課程特色</a></h3><ul class="features__list"><li class="features__list__item"><p class="title">技術脈絡</p><p class="desc">學程式跟學歷史一樣，要掌握的是脈絡而不是單點。在這邊基礎為主，工具為輔，藉由連貫的課程帶你認識技術脈絡，也培養紮實的基本功。</p></li><li class="features__list__item"><p class="title">學習社群</p><p class="desc">藉由學習系統以及群組，認識不同背景的同學，從彼此身上學習，也能夠互相砥礪，創造出良好的學習氛圍。我們鼓勵交流，卻不強制。</p></li><li class="features__list__item"><p class="title">動手實作</p><p class="desc">學程式光看是沒有用的，一定要動手做，藉由作業培養實作能力。二十四週的課程，每一週都有作業，每個作業都會有人批改。</p></li><li class="features__list__item"><p class="title">自學能力</p><p class="desc">在這裡不只學程式，也學習如何學習。課程中後期並不會一步步帶著你，而是留下一部分的自學空間，培養自學能力。課程是一時的，學習是一輩子的。</p></li><li class="features__list__item"><p class="title">資訊透明</p><p class="desc">課綱、作業、心得、成效、反省，在這裡每一項東西都是對外公開的。我希望你徹底瞭解這個課程在幹嘛，再決定要不要報名。</p></li><li class="features__list__item"><p class="title">直播解惑</p><p class="desc">除了錄好的線上課程以外，還有不定期直播，開放各式各樣的提問，現場幫你解答。</p></li></ul><div class="pic features__pic rellax" data-rellax-speed="2" data-rellax-percentage="0.5"><img src="./image/img_features.svg"></div></section><section class="section methods anchor-methods"><h3 class="common__title center"><a href="#anchor-methods">教學方式</a></h3><p class="methods__desc">課程一共有 26 週，前 24 週學習前後端基礎，最後 2 週分組做期末專案。上課方式為觀看錄製好的線上課程影片，碰到問題可以隨時找助教跟老師求救。

diff --git a/docs/achievement.html b/docs/achievement.html
@@ -1,4 +1,4 @@
-<!-- layout--><!DOCTYPE html><html lang="en"><head><meta charset="UTF-8"/><meta name="viewport" content="width=device-width, initial-scale=1.0"/><meta name="Description" content="不喊口號也不誇大成效，開放透明的前後端線上學習計畫。 試著用六個月的時間，培養出一個找得到工作且基礎紮實的網頁工程師。"/><meta http-equiv="X-UA-Compatible" content="IE=edge"/><meta property="og:title" content="Lidemy 程式導師實驗計畫第四期"/><meta property="og:description" content="不喊口號也不誇大成效，開放透明的前後端線上學習計畫。 試著用六個月的時間，培養出一個找得到工作且基礎紮實的網頁工程師。"/><meta property="og:image" content="https://bootcamp.lidemy.com/image/og-img.png"/><meta property="og:type" content="website"/><meta property="og:url" content="https://bootcamp.lidemy.com"/><meta property="og:site_name" content="Lidemy 程式導師實驗計畫第四期"/><meta property="og:image:width" content="1200"/><meta property="og:image:height" content="628"/><meta name="twitter:card" content="summary_large_image"/><meta name="twitter:title" content="Lidemy 程式導師實驗計畫第四期"/><meta name="twitter:description" content="不喊口號也不誇大成效，開放透明的前後端線上學習計畫。 試著用六個月的時間，培養出一個找得到工作且基礎紮實的網頁工程師。"/><meta name="twitter:image" content="https://bootcamp.lidemy.com/image/og-img.png"/><link rel="author" type="text/plain" href="/humans.txt"/><link rel="stylesheet" href="css/main.min.css"/><link rel="icon" type="image/png" sizes="96x96" href="./image/favicon-96x96.png"/><title>歷屆成果 | Lidemy 程式導師實驗計畫第四期</title><script async="" src="https://www.googletagmanager.com/gtag/js?id=UA-77560722-2"></script><script>window.dataLayer = window.dataLayer || [];
+<!-- layout--><!DOCTYPE html><html lang="en"><head><meta charset="UTF-8"/><meta name="viewport" content="width=device-width, initial-scale=1.0"/><meta name="Description" content="不喊口號也不誇大成效，開放透明的前後端線上學習計畫。 試著用六個月的時間，培養出一個找得到工作且基礎紮實的網頁工程師。"/><meta http-equiv="X-UA-Compatible" content="IE=edge"/><meta property="og:title" content="Lidemy 程式導師實驗計畫第五期"/><meta property="og:description" content="不喊口號也不誇大成效，開放透明的前後端線上學習計畫。 試著用六個月的時間，培養出一個找得到工作且基礎紮實的網頁工程師。"/><meta property="og:image" content="https://bootcamp.lidemy.com/image/og-img.png"/><meta property="og:type" content="website"/><meta property="og:url" content="https://bootcamp.lidemy.com"/><meta property="og:site_name" content="Lidemy 程式導師實驗計畫第五期"/><meta property="og:image:width" content="1200"/><meta property="og:image:height" content="628"/><meta name="twitter:card" content="summary_large_image"/><meta name="twitter:title" content="Lidemy 程式導師實驗計畫第五期"/><meta name="twitter:description" content="不喊口號也不誇大成效，開放透明的前後端線上學習計畫。 試著用六個月的時間，培養出一個找得到工作且基礎紮實的網頁工程師。"/><meta name="twitter:image" content="https://bootcamp.lidemy.com/image/og-img.png"/><link rel="author" type="text/plain" href="/humans.txt"/><link rel="stylesheet" href="css/main.min.css"/><link rel="icon" type="image/png" sizes="96x96" href="./image/favicon-96x96.png"/><title>歷屆成果 | Lidemy 程式導師實驗計畫第五期</title><script async="" src="https://www.googletagmanager.com/gtag/js?id=UA-77560722-2"></script><script>window.dataLayer = window.dataLayer || [];
 function gtag(){dataLayer.push(arguments);}
 gtag('js', new Date());
 gtag('config', 'UA-77560722-2')</script></head><body><header class="header"><div class="header__content"><div class="header__logo"><a class="header__logo-img" href="/" aria-label="Home"></a><i class="fas fa-bars header__responsive__icon"></i></div><nav class="header__nav"><ul><li><a href="/">首頁</a></li><li><a href="introduce.html">計畫介紹</a></li><li><a href="syllabus.html">課程大綱</a></li><li class="current"><a href="achievement.html">教學成果</a></li><li><a href="course-info.html">課程資訊</a></li><li><a href="faq.html">FAQ</a></li></ul></nav><a class="header__cta-btn" href="course-info.html">了解報名資訊</a></div></header><div class="wrapper"><section class="section student-report"><section class="section post anchor-data "><h3 class="common__title left"><a href="#anchor-data">歷屆成果報告</a></h3><div class="post__content"><p>以下是歷屆的學生求職狀況，如果想要了解更詳細的資訊，可以參考以下文章：</p><div class="student-report__links"><a href="https://medium.com/hulis-blog/mentor-program-review-a9c6668dfb" target="_blank" rel="noopener"><em>第一期</em> 程式導師實驗計畫第一期成果與心得</a><a href="https://medium.com/hulis-blog/mentor-program-2nd-result-3cb7c2b6627e" target="_blank" rel="noopener"><em>第二期</em> 27% 的人找到工作——程式導師實驗計畫第二期成果報吿</a><a href="https://medium.com/@hulitw/mentor-program-3rd-result-df178bb55f4" target="_blank" rel="noopener"><em>第三期</em> 華麗謝幕：程式導師實驗計畫第三期成果以及未來走向</a><a href="https://hulitw.medium.com/mentor-program-4th-review-f8e8de92eea2" target="_blank" rel="noopener"><em>第四期</em> 程式導師實驗計畫第四期檢討與心得</a></div></div></section><section class="section post anchor-report "><h3 class="common__title left"><a href="#anchor-report">學生求職成果</a></h3><div class="post__content"><div class="chart-container"><canvas id="chart"></canvas></div><p class="annotation">* 結業的定義：課程結束時沒有被淘汰制淘汰，意思就是一直有在跟課程，但結業時不一定有「把課程都上完」，詳情可見上面的心得，裡面有詳細數據。</p></div></section></section><div class="wave"></div><div class="full-bg theme-dark"><div class="student-experience"><section class="section post anchor-experience "><h3 class="common__title left"><a href="#anchor-experience">歷屆學員心得</a></h3><div class="post__content"><p>程式導師實驗計畫在每一期結束時都會請學生寫課程心得，好的壞的都可以，還會提醒盡量寫缺點，這樣才能盡快在下一期改進。

diff --git a/docs/course-info.html b/docs/course-info.html
@@ -1,4 +1,4 @@
-<!-- layout--><!DOCTYPE html><html lang="en"><head><meta charset="UTF-8"/><meta name="viewport" content="width=device-width, initial-scale=1.0"/><meta name="Description" content="不喊口號也不誇大成效，開放透明的前後端線上學習計畫。 試著用六個月的時間，培養出一個找得到工作且基礎紮實的網頁工程師。"/><meta http-equiv="X-UA-Compatible" content="IE=edge"/><meta property="og:title" content="Lidemy 程式導師實驗計畫第四期"/><meta property="og:description" content="不喊口號也不誇大成效，開放透明的前後端線上學習計畫。 試著用六個月的時間，培養出一個找得到工作且基礎紮實的網頁工程師。"/><meta property="og:image" content="https://bootcamp.lidemy.com/image/og-img.png"/><meta property="og:type" content="website"/><meta property="og:url" content="https://bootcamp.lidemy.com"/><meta property="og:site_name" content="Lidemy 程式導師實驗計畫第四期"/><meta property="og:image:width" content="1200"/><meta property="og:image:height" content="628"/><meta name="twitter:card" content="summary_large_image"/><meta name="twitter:title" content="Lidemy 程式導師實驗計畫第四期"/><meta name="twitter:description" content="不喊口號也不誇大成效，開放透明的前後端線上學習計畫。 試著用六個月的時間，培養出一個找得到工作且基礎紮實的網頁工程師。"/><meta name="twitter:image" content="https://bootcamp.lidemy.com/image/og-img.png"/><link rel="author" type="text/plain" href="/humans.txt"/><link rel="stylesheet" href="css/main.min.css"/><link rel="icon" type="image/png" sizes="96x96" href="./image/favicon-96x96.png"/><title>課程資訊 | Lidemy 程式導師實驗計畫第四期</title><script async="" src="https://www.googletagmanager.com/gtag/js?id=UA-77560722-2"></script><script>window.dataLayer = window.dataLayer || [];
+<!-- layout--><!DOCTYPE html><html lang="en"><head><meta charset="UTF-8"/><meta name="viewport" content="width=device-width, initial-scale=1.0"/><meta name="Description" content="不喊口號也不誇大成效，開放透明的前後端線上學習計畫。 試著用六個月的時間，培養出一個找得到工作且基礎紮實的網頁工程師。"/><meta http-equiv="X-UA-Compatible" content="IE=edge"/><meta property="og:title" content="Lidemy 程式導師實驗計畫第五期"/><meta property="og:description" content="不喊口號也不誇大成效，開放透明的前後端線上學習計畫。 試著用六個月的時間，培養出一個找得到工作且基礎紮實的網頁工程師。"/><meta property="og:image" content="https://bootcamp.lidemy.com/image/og-img.png"/><meta property="og:type" content="website"/><meta property="og:url" content="https://bootcamp.lidemy.com"/><meta property="og:site_name" content="Lidemy 程式導師實驗計畫第五期"/><meta property="og:image:width" content="1200"/><meta property="og:image:height" content="628"/><meta name="twitter:card" content="summary_large_image"/><meta name="twitter:title" content="Lidemy 程式導師實驗計畫第五期"/><meta name="twitter:description" content="不喊口號也不誇大成效，開放透明的前後端線上學習計畫。 試著用六個月的時間，培養出一個找得到工作且基礎紮實的網頁工程師。"/><meta name="twitter:image" content="https://bootcamp.lidemy.com/image/og-img.png"/><link rel="author" type="text/plain" href="/humans.txt"/><link rel="stylesheet" href="css/main.min.css"/><link rel="icon" type="image/png" sizes="96x96" href="./image/favicon-96x96.png"/><title>課程資訊 | Lidemy 程式導師實驗計畫第五期</title><script async="" src="https://www.googletagmanager.com/gtag/js?id=UA-77560722-2"></script><script>window.dataLayer = window.dataLayer || [];
 function gtag(){dataLayer.push(arguments);}
 gtag('js', new Date());
 gtag('config', 'UA-77560722-2')</script></head><body><header class="header"><div class="header__content"><div class="header__logo"><a class="header__logo-img" href="/" aria-label="Home"></a><i class="fas fa-bars header__responsive__icon"></i></div><nav class="header__nav"><ul><li><a href="/">首頁</a></li><li><a href="introduce.html">計畫介紹</a></li><li><a href="syllabus.html">課程大綱</a></li><li><a href="achievement.html">教學成果</a></li><li class="current"><a href="course-info.html">課程資訊</a></li><li><a href="faq.html">FAQ</a></li></ul></nav><a class="header__cta-btn" href="course-info.html">了解報名資訊</a></div></header><div class="wrapper"><section class="section post anchor-rule "><h3 class="common__title left"><a href="#anchor-rule">課程制度</a></h3><div class="post__content"><p>對於願意付出時間學習並且有轉職意願的同學來說，這個課程有所謂的<strong>「淘汰制」</strong>，週一至週五每一天都必須在學習系統內報告進度（今天學了哪些東西），兩週內每日進度報告累積缺交三次即淘汰。每日進度報告沒有限字數，因此淘汰的門檻其實滿低的，會有淘汰制主要是想增進大家的學習動力。

diff --git a/docs/introduce.html b/docs/introduce.html
@@ -1,4 +1,4 @@
-<!-- layout--><!DOCTYPE html><html lang="en"><head><meta charset="UTF-8"/><meta name="viewport" content="width=device-width, initial-scale=1.0"/><meta name="Description" content="不喊口號也不誇大成效，開放透明的前後端線上學習計畫。 試著用六個月的時間，培養出一個找得到工作且基礎紮實的網頁工程師。"/><meta http-equiv="X-UA-Compatible" content="IE=edge"/><meta property="og:title" content="Lidemy 程式導師實驗計畫第四期"/><meta property="og:description" content="不喊口號也不誇大成效，開放透明的前後端線上學習計畫。 試著用六個月的時間，培養出一個找得到工作且基礎紮實的網頁工程師。"/><meta property="og:image" content="https://bootcamp.lidemy.com/image/og-img.png"/><meta property="og:type" content="website"/><meta property="og:url" content="https://bootcamp.lidemy.com"/><meta property="og:site_name" content="Lidemy 程式導師實驗計畫第四期"/><meta property="og:image:width" content="1200"/><meta property="og:image:height" content="628"/><meta name="twitter:card" content="summary_large_image"/><meta name="twitter:title" content="Lidemy 程式導師實驗計畫第四期"/><meta name="twitter:description" content="不喊口號也不誇大成效，開放透明的前後端線上學習計畫。 試著用六個月的時間，培養出一個找得到工作且基礎紮實的網頁工程師。"/><meta name="twitter:image" content="https://bootcamp.lidemy.com/image/og-img.png"/><link rel="author" type="text/plain" href="/humans.txt"/><link rel="stylesheet" href="css/main.min.css"/><link rel="icon" type="image/png" sizes="96x96" href="./image/favicon-96x96.png"/><title>計畫介紹 | Lidemy 程式導師實驗計畫第四期</title><script async="" src="https://www.googletagmanager.com/gtag/js?id=UA-77560722-2"></script><script>window.dataLayer = window.dataLayer || [];
+<!-- layout--><!DOCTYPE html><html lang="en"><head><meta charset="UTF-8"/><meta name="viewport" content="width=device-width, initial-scale=1.0"/><meta name="Description" content="不喊口號也不誇大成效，開放透明的前後端線上學習計畫。 試著用六個月的時間，培養出一個找得到工作且基礎紮實的網頁工程師。"/><meta http-equiv="X-UA-Compatible" content="IE=edge"/><meta property="og:title" content="Lidemy 程式導師實驗計畫第五期"/><meta property="og:description" content="不喊口號也不誇大成效，開放透明的前後端線上學習計畫。 試著用六個月的時間，培養出一個找得到工作且基礎紮實的網頁工程師。"/><meta property="og:image" content="https://bootcamp.lidemy.com/image/og-img.png"/><meta property="og:type" content="website"/><meta property="og:url" content="https://bootcamp.lidemy.com"/><meta property="og:site_name" content="Lidemy 程式導師實驗計畫第五期"/><meta property="og:image:width" content="1200"/><meta property="og:image:height" content="628"/><meta name="twitter:card" content="summary_large_image"/><meta name="twitter:title" content="Lidemy 程式導師實驗計畫第五期"/><meta name="twitter:description" content="不喊口號也不誇大成效，開放透明的前後端線上學習計畫。 試著用六個月的時間，培養出一個找得到工作且基礎紮實的網頁工程師。"/><meta name="twitter:image" content="https://bootcamp.lidemy.com/image/og-img.png"/><link rel="author" type="text/plain" href="/humans.txt"/><link rel="stylesheet" href="css/main.min.css"/><link rel="icon" type="image/png" sizes="96x96" href="./image/favicon-96x96.png"/><title>計畫介紹 | Lidemy 程式導師實驗計畫第五期</title><script async="" src="https://www.googletagmanager.com/gtag/js?id=UA-77560722-2"></script><script>window.dataLayer = window.dataLayer || [];
 function gtag(){dataLayer.push(arguments);}
 gtag('js', new Date());
 gtag('config', 'UA-77560722-2')</script></head><body><header class="header"><div class="header__content"><div class="header__logo"><a class="header__logo-img" href="/" aria-label="Home"></a><i class="fas fa-bars header__responsive__icon"></i></div><nav class="header__nav"><ul><li><a href="/">首頁</a></li><li class="current"><a href="introduce.html">計畫介紹</a></li><li><a href="syllabus.html">課程大綱</a></li><li><a href="achievement.html">教學成果</a></li><li><a href="course-info.html">課程資訊</a></li><li><a href="faq.html">FAQ</a></li></ul></nav><a class="header__cta-btn" href="course-info.html">了解報名資訊</a></div></header><div class="wrapper"><section class="project anchor-projectIntro"><div class="project__text"> <h3>實驗 <span>X</span> 自學 <span>X</span> 公開</h3><p>程式導師實驗計畫開始於 2017 年 12 月，大概每半年為一期，

diff --git a/src/scss/sprite/view/sprite.view.html b/src/scss/sprite/view/sprite.view.html
@@ -449,7 +449,7 @@ pre-defined in the external sprite.
 
 		</section>
 		<footer>
-			<p>Generated at Mon, 22 Feb 2021 15:39:13 GMT by <a href="https://github.com/jkphl/svg-sprite" target="_blank">svg-sprite</a>.</p>
+			<p>Generated at Mon, 22 Feb 2021 15:45:15 GMT by <a href="https://github.com/jkphl/svg-sprite" target="_blank">svg-sprite</a>.</p>
 		</footer>
 	</body>
 </html>
